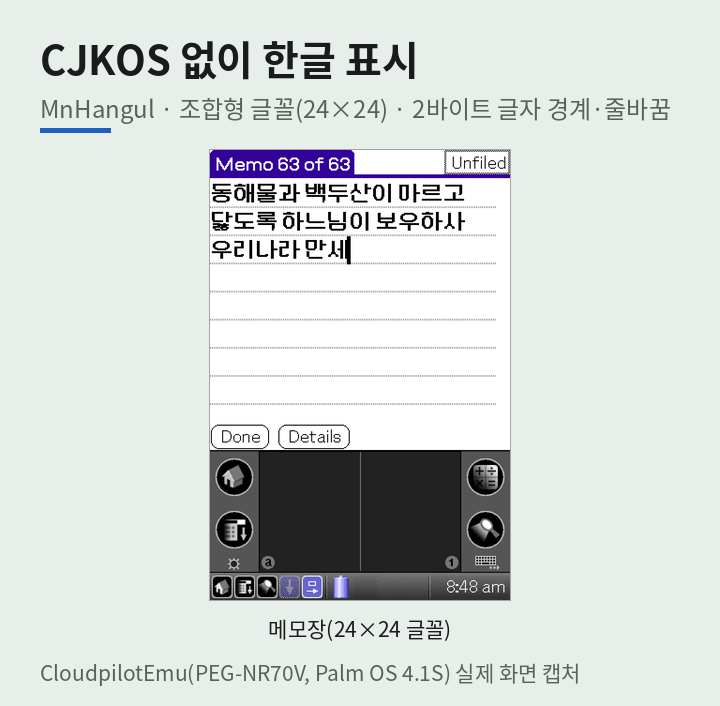
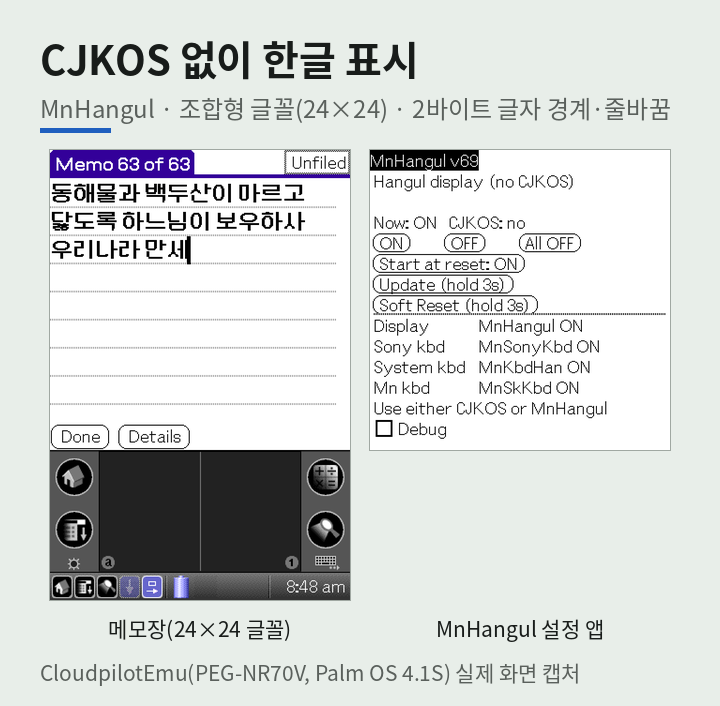
README: MnHangul figure with its settings screen
mnhangul.png now shows Memo Pad and the MnHangul settings app side by
side (existing capture app_hg). gen-readme-captures.py aligns captures of
different heights at the top; the other figures regenerate unchanged.

Claude-Session: https://claude.ai/code/session_0111EUgHmukks2KoNHTb7Lqc

Changed region(s): [[0.0611, 0.187, 0.8556, 0.9037], [0.275, 0.4674, 0.3056, 0.4986]]

diff --git a/tools/gen-readme-captures.py b/tools/gen-readme-captures.py
@@ -40,7 +40,7 @@ FIGS = {   # 세 키보드 같은 말: 부제 = "모듈 · 한/A 단추 자리 =
     'apps.png': ('설정 앱 네 개 — 같은 화면', 'MnHangul · MnSonyKbd · MnKbdHan · MnSkKbd · 모듈 상태 4줄은 어느 앱에서나 같음',
                  [('app_hg', 'MnHangul (한글 표시)'), ('app_sy', 'MnSonyKbd'), ('app_kh', 'MnKbdHan'), ('app_sk', 'MnSkKbd (Mn 키보드)')]),
     'mnhangul.png': ('CJKOS 없이 한글 표시', 'MnHangul · 조합형 글꼴(24×24) · 2바이트 글자 경계·줄바꿈',
-                     [('hg_memo', '메모장(24×24 글꼴)')]),
+                     [('hg_memo', '메모장(24×24 글꼴)'), ('app_hg', 'MnHangul 설정 앱')]),
     'os5-tg50.png': ('Palm OS 5 (TG50) 한글 표시·입력', 'MnHangul5 · 하드웨어 키보드 두벌식 · Shift+Space = 한/영',
                      [('tg50_app', 'MnHangul5 설정 앱'), ('tg50_list', '메모 목록'),
                       ('tg50_han', '한: 오른쪽 아래 한 표시'), ('tg50_eng', 'Shift+Space: 영문')],
@@ -54,7 +54,7 @@ def figure(name, title, sub, shots, note=NR70V_NOTE):
     for f, _ in shots:
         s = Image.open(os.path.join(CAP, f + '.png')).convert('RGB')
         ims.append(s.resize((SW, round(s.height * SW / s.width)), Image.LANCZOS))
-    sh = ims[0].height
+    sh = max(im.height for im in ims)   # 높이가 다른 캡처(메모장 640×960, 설정 앱 640×640)는 위를 맞춤
     n = len(ims)
     W = max(40 * 2 + n * SW + (n - 1) * GAP, 720)
     H = 150 + sh + 56 + 50
@@ -67,7 +67,7 @@ def figure(name, title, sub, shots, note=NR70V_NOTE):
     x0 = (W - (n * SW + (n - 1) * GAP)) // 2
     for i, (im, (_, cap)) in enumerate(zip(ims, shots)):
         x = x0 + i * (SW + GAP)
-        d.rectangle((x - 1, y - 1, x + SW, y + sh), outline=(160, 168, 162))
+        d.rectangle((x - 1, y - 1, x + SW, y + im.height), outline=(160, 168, 162))
         img.paste(im, (x, y))
         tw = d.textlength(cap, font=CF)
         d.text((x + (SW - tw) / 2, y + sh + 12), cap, font=CF, fill=INK)
